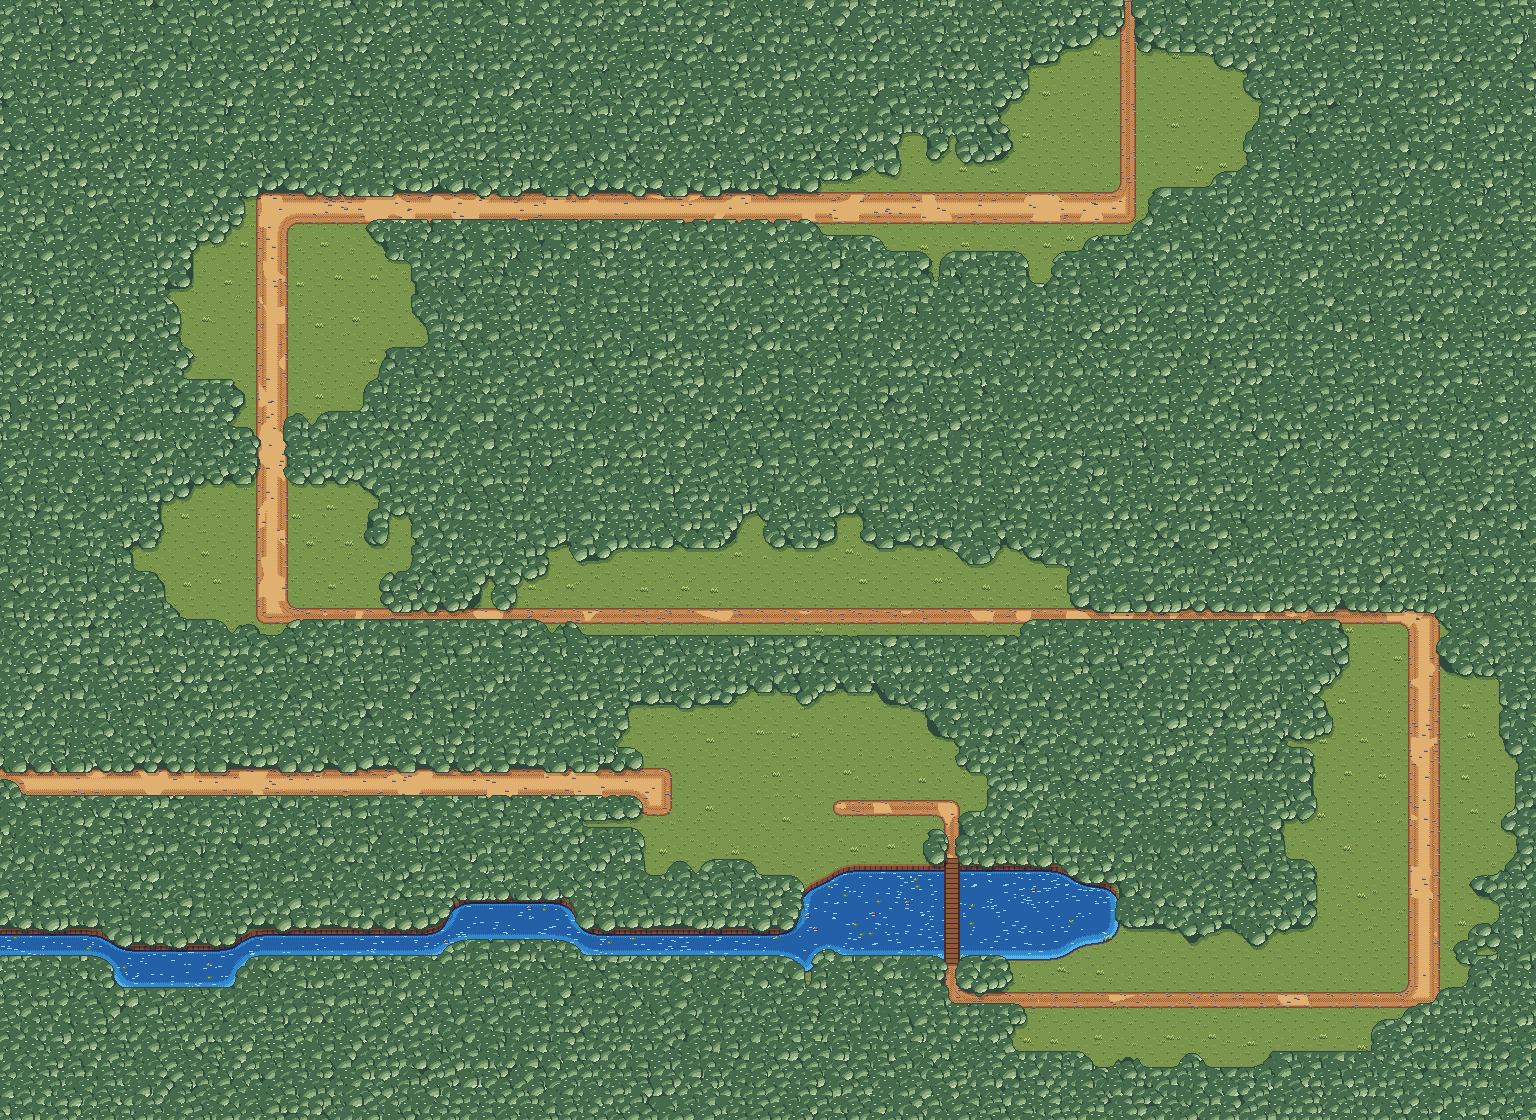
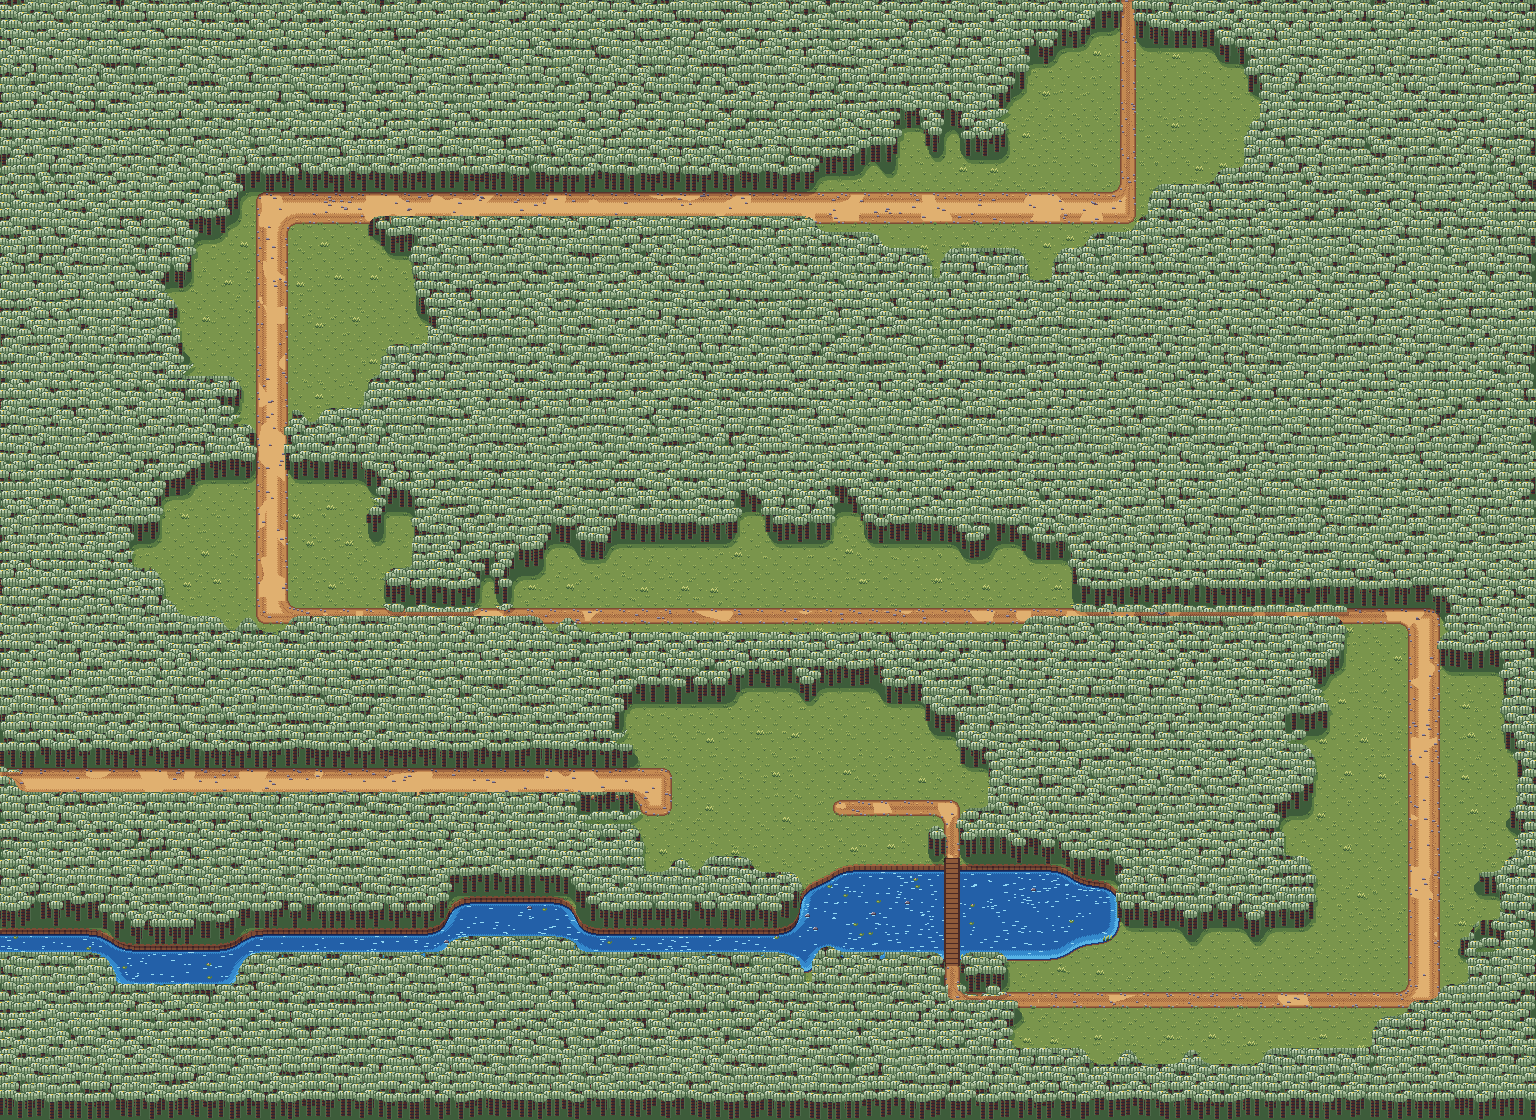
feat(terreno): masas por región según el sistema de diseño y relleno fuera del follaje (paso 4a, parcial; enmienda 14)

diff --git a/tools/gen_tierra_viva_terrain.py b/tools/gen_tierra_viva_terrain.py
@@ -79,6 +79,9 @@ def palette(state: str, region: str) -> dict[str, list[np.ndarray]]:
     p = {k: ramp(k) for k in ("grass", "leaf", "dirt", "sand", "water", "stone", "wood", "flower",
                               "ash", "gold", "roof_red", "ink")}
     dead = seven(ramp("dead_leaf"), [0, 1, 2, 3, 4, 5, 5])
+    p["dead"] = dead
+    p["fire"] = ramp("fire")
+    p["frailejon"] = seven(ramp("frailejon"), [0, 0, 1, 2, 3, 4, 4])
     if region == "cumbre":
         # páramo: pajonal y nieve en lo sano; pajonal seco y pedregal del
         # glaciar derretido en lo enfermo. Las matas son puyas.
@@ -343,68 +346,219 @@ def paint_water(img, wat, land, P, rng):
     return bank
 
 
-def paint_canopy(img, canopy, P, rng):
-    """Masa de copas por racimos (flora.clumps_canopy), recortada a su máscara.
-    Cada racimo es una esfera de 3-4 tonos de la rampa, de atrás adelante;
-    contorno del tono más oscuro de la rampa y sombra al sur sobre el suelo."""
-    H, W = canopy.shape
-    leaf = P["leaf"]
-    lx, ly = -0.6, -0.8
-    layer = np.zeros_like(img)
-    circles = []
-    for y in range(-6, H + 8, 9):
-        for x in range(-6 + (5 if (y // 9) % 2 else 0), W + 8, 11):
-            cx, cy = x + rng.integers(-3, 4), y + rng.integers(-2, 3)
-            if canopy[min(max(cy, 0), H - 1), min(max(cx, 0), W - 1)] or \
-                    canopy[min(max(cy + 6, 0), H - 1), min(max(cx, 0), W - 1)]:
-                circles.append((cx, cy, int(rng.integers(7, 11))))
-    circles.sort(key=lambda c: c[1])
-    for cx, cy, r in circles:
-        x0, x1 = max(0, cx - r - 1), min(W, cx + r + 2)
-        y0, y1 = max(0, cy - r - 1), min(H, cy + r + 2)
-        if x0 >= x1 or y0 >= y1:
-            continue
-        yy, xx = np.mgrid[y0:y1, x0:x1]
+# --- masas del follaje (enmienda 14 y sistema de diseño) -------------------------
+#
+# «Los bosques se cierran con filas de árboles solapados (muro de árboles)»;
+# «el árbol quemado es el mismo árbol sin copa, con hollín al pie»; «en lo
+# enfermo los arbustos son ramitas secas, no manchas oscuras» (README del
+# sistema de diseño «Tierra Viva» y sus tarjetas Overworld y Regiones).
+# Cada región tiene su pieza en sano y en enfermo, y las dos se colocan en los
+# mismos sitios: la ola descubre cada árbol sobre su versión quemada.
+
+## (pieza sana, pieza enferma, paso horizontal, paso vertical) por región.
+MASS = {
+    "bosque": ("tree", "burnt_embers", 14, 10),
+    "cuenca": ("tree", "burnt", 14, 10),
+    "costa": ("bush", "twigs", 11, 8),
+    "llanura": ("bush", "twigs", 11, 8),
+    "cumbre": ("frailejon", "frailejon_dry", 10, 9),
+}
+
+## Píxeles que una pieza del borde norte de la masa puede asomar por encima
+## de sus casillas: la copa sube, no se corta en recto.
+RISE = 8
+
+
+def clumps(W, H, circles, ramp, light=(-0.6, -0.8)):
+    """Racimos de copa (flora.clumps_canopy): cada racimo es una esfera de 3-4
+    tonos de la rampa, de atrás adelante, con su borde inferior separado."""
+    img = np.zeros((H, W, 4), np.uint8)
+    m = np.zeros((H, W), bool)
+    yy, xx = np.mgrid[0:H, 0:W]
+    lx, ly = light
+    y0, y1 = min(c[1] for c in circles), max(c[1] for c in circles)
+    for cx, cy, r in sorted(circles, key=lambda c: c[1]):
         dx = (xx + 0.5 - cx) / r
         dy = (yy + 0.5 - cy) / (r * 0.9)
         d2 = dx * dx + dy * dy
         inside = d2 <= 1.0
         nz = np.sqrt(np.clip(1 - d2, 0, 1))
-        v = np.clip(-(dx * lx + dy * ly) * 0.8 + nz * 0.5, 0, 1) - 0.08
+        occl = 0.25 * (cy - y0) / max(1, y1 - y0)
+        v = np.clip(-(dx * lx + dy * ly) * 0.8 + nz * 0.5, 0, 1) - occl
         idx = np.where(v > 0.78, 5, np.where(v > 0.52, 4, np.where(v > 0.28, 3, 2)))
-        win = layer[y0:y1, x0:x1]
+        layer = np.zeros_like(img)
         for k in (2, 3, 4, 5):
-            win[inside & (idx == k)] = leaf[k]
-        win[inside & (d2 > 0.72) & ((dy > 0.1) | (dx > 0.55))] = leaf[1]
-        if r > 8:
-            hx, hy = int(cx - r * 0.4), int(cy - r * 0.45)
-            if 0 <= hy < H and 0 <= hx < W - 1:
-                layer[hy, hx:hx + 2] = leaf[6]
-    # El borde de la masa es el de los racimos: asoman hasta OVERHANG px
-    # fuera de sus casillas, en festón, y no en una línea recta recortada.
-    reach = ndi.binary_dilation(canopy, disk(OVERHANG))
-    shape = (canopy | (layer[..., 3] > 0)) & reach
-    shape = ndi.binary_opening(shape, disk(1)) | canopy
-    # sombra de la masa sobre el suelo, al sur y un poco a la derecha
+            layer[inside & (idx == k)] = ramp[k]
+        layer[inside & (d2 > 0.72) & ((dy > 0.1) | (dx > 0.55))] = ramp[1]
+        img[inside] = layer[inside]
+        m |= inside
+    for cx, cy, r in circles:
+        if cy - y0 <= (y1 - y0) * 0.5 and r > 5:
+            x, y = int(cx - r * 0.4), int(cy - r * 0.45)
+            if 0 <= y < H and 0 <= x < W - 1 and m[y, x]:
+                img[y, x:x + 2] = ramp[6]
+    return img, m
+
+
+def outlined(img, color):
+    """Contorno exterior de 1 px (cláusula 3: el tono más oscuro de la rampa
+    de la propia pieza)."""
+    m = img[..., 3] > 0
+    ring = ndi.binary_dilation(m) & ~m
+    out = img.copy()
+    out[ring] = color
+    return out
+
+
+def line(img, x0, y0, x1, y1, color, width=1):
+    H, W = img.shape[:2]
+    n = int(max(abs(x1 - x0), abs(y1 - y0))) + 1
+    for t in np.linspace(0, 1, n):
+        x, y = int(round(x0 + (x1 - x0) * t)), int(round(y0 + (y1 - y0) * t))
+        if 0 <= y < H:
+            img[y, max(0, x):max(0, min(W, x + width))] = color
+
+
+def trunk(img, cx, top, bottom, ramp):
+    """Tronco de 6 px con luz a la izquierda y raíces abiertas al pie."""
+    img[top:bottom, cx - 3:cx + 3] = ramp[2]
+    img[top:bottom, cx - 3:cx - 1] = ramp[3]
+    img[top:bottom, cx + 2:cx + 3] = ramp[1]
+    img[bottom - 2:bottom, cx - 5:cx + 5] = ramp[2]
+    img[bottom - 1, cx - 5:cx - 3] = ramp[1]
+    img[bottom - 1, cx + 3:cx + 5] = ramp[1]
+
+
+def piece(kind, P, rs):
+    """Una pieza de masa. El pie es el centro de su fila de abajo."""
+    leaf, wood, ash = P["leaf"], P["wood"], P["ash"]
+    if kind == "tree":
+        W, H = 28, 38
+        img = np.zeros((H, W, 4), np.uint8)
+        trunk(img, 14, 22, H, wood)
+        circles = [(14 + int(rs.integers(-1, 2)), 11, 10), (7, 15, 7), (21, 15, 7), (10, 7, 6), (19, 7, 6)]
+        top, _ = clumps(W, 27, circles, leaf)
+        top = outlined(top, leaf[0])
+        blit(img, top, 0, 0)
+        return img
+    if kind in ("burnt", "burnt_embers"):
+        # el mismo árbol sin copa: tronco y ramas carbonizados en ceniza
+        W, H = 28, 38
+        img = np.zeros((H, W, 4), np.uint8)
+        trunk(img, 14, 14, H, ash)
+        tips = []
+        for a in (-2.3, -1.9, -1.4, -1.0, -0.6):
+            a += rs.uniform(-0.15, 0.15)
+            ln = rs.uniform(9, 13)
+            x1, y1 = 14 + np.cos(a) * ln, 15 + np.sin(a) * ln
+            line(img, 14, 16, x1, y1, ash[1], 2)
+            tx, ty = x1 + np.cos(a - 0.5) * 4, y1 + np.sin(a - 0.5) * 4
+            line(img, x1, y1, tx, ty, ash[2])
+            tips.append((int(x1), int(y1)))
+        img = outlined(img, ash[0])
+        if kind == "burnt_embers" and rs.random() < 0.25:
+            # brasas de `fire` en las ramas: la causa sigue activa
+            fire = P["fire"]
+            for k, (x, y) in enumerate(tips):
+                if 0 <= y < H and 0 <= x < W:
+                    img[y, x] = fire[4 if k % 2 else 3]
+            img[16, 13:15] = fire[2]
+        return img
+    if kind == "bush":
+        circles = [(9, 7, 6), (5, 9, 4), (13, 9, 4)]
+        img, _ = clumps(18, 14, circles, leaf)
+        return outlined(img, leaf[0])
+    if kind == "twigs":
+        W, H = 16, 12
+        img = np.zeros((H, W, 4), np.uint8)
+        dl = P["dead"]
+        for k in range(7):
+            a = -np.pi / 2 + rs.uniform(-1.0, 1.0)
+            ln = rs.uniform(5, 10)
+            line(img, 8, 11, 8 + np.cos(a) * ln, 11 + np.sin(a) * ln, dl[2 + k % 3])
+        img[10:12, 6:10] = dl[1]
+        return img
+    if kind in ("frailejon", "frailejon_dry"):
+        W, H = 14, 26
+        img = np.zeros((H, W, 4), np.uint8)
+        dry = kind == "frailejon_dry"
+        skirt = P["dead"]
+        # tronco cubierto de hojas secas, como el frailejón de verdad
+        img[9:H, 5:9] = skirt[2]
+        img[9:H, 5:6] = skirt[3]
+        img[9:H:3, 5:9] = skirt[1]
+        ros = P["dead"] if dry else P["frailejon"]
+        yy, xx = np.mgrid[0:11, 0:W]
+        e = ((xx + 0.5 - 7) / 7) ** 2 + ((yy + 0.5 - 5) / 4.5) ** 2 <= 1
+        top = np.zeros((11, W, 4), np.uint8)
+        top[e] = ros[2]
+        top[e & (yy < 5)] = ros[3]
+        top[e & (yy < 3) & (xx < 8)] = ros[4]
+        for x in range(1, W - 1, 3):
+            top[e & (xx == x) & (yy > 1)] = ros[1]
+        if not dry:
+            top[1, 6:8] = P["gold"][4]
+        img[:11][e] = top[e]
+        return outlined(img, ros[0])
+    raise KeyError(kind)
+
+
+def paint_mass(img, mask, region, state, P, rng):
+    """Muro de piezas sobre la máscara del follaje, ordenadas por el pie.
+    Devuelve la silueta de la masa."""
+    H, W = mask.shape
+    pure_kind, sick_kind, sx, sy = MASS[region]
+    kind = pure_kind if state == "sano" else sick_kind
+    feet = []
+    for y in range(sy, H + sy, sy):
+        for x in range((y // sy % 2) * (sx // 2), W, sx):
+            fx, fy = x + int(rng.integers(-3, 4)), y + int(rng.integers(-2, 3))
+            if 0 <= fy < H and 0 <= fx < W and mask[fy, fx]:
+                feet.append((fy, fx, int(rng.integers(0, 1 << 30))))
+    feet.sort()
+    reach = ndi.binary_dilation(mask, disk(OVERHANG))
+    for k in range(1, RISE + 1):
+        reach |= shift(mask, -k, 0)
+    sick = state != "sano"
+    yy, xx = np.indices(mask.shape)
+    if sick:
+        # hollín bajo lo muerto: el suelo de la masa se oscurece, tramado
+        soot = mask & ((xx + yy) % 2 == 0)
+        img[soot] = darker(img[soot], P)
+        img[mask & ((xx * 3 + yy * 5) % 7 == 0)] = P["ash"][1]
+    elif kind == "frailejon":
+        img[mask] = P["grass"][2]
+    else:
+        img[mask] = P["leaf"][1]
+    layer = np.zeros_like(img)
+    for n, (fy, fx, seed) in enumerate(feet):
+        if sick and kind.startswith("burnt") and n % 3 and mask[min(fy + 10, H - 1), fx]:
+            # Lo quemado no es una espesura: queda el borde de la masa entero
+            # y uno de cada tres árboles dentro, con el suelo en hollín a la
+            # vista entre ellos (sistema de diseño, mapa del Bosque enfermo).
+            continue
+        spr = piece(kind, P, np.random.default_rng(seed))
+        h, w = spr.shape[:2]
+        blit(layer, spr, fx - w // 2, fy - h + 1)
+    on = (layer[..., 3] > 0) & reach
+    shape = on | mask
     shadow = shift(shape, 4, 2) & ~shape
     img[shadow] = darker(img[shadow], P)
-    filled = shape & (layer[..., 3] > 0)
-    img[filled] = layer[filled]
-    img[shape & ~filled] = leaf[1]
-    img[ndi.binary_dilation(shape) & ~shape] = leaf[0]
+    img[on] = layer[on]
     return shape
 
 
-def darker(px: np.ndarray, P: dict) -> np.ndarray:
+def darker(px, P):
     """Baja un tono cada píxel dentro de la rampa del estado a la que pertenece."""
+    if len(px) == 0:
+        return px
     lut = {}
     for r in P.values():
         for i, c in enumerate(r):
-            lut.setdefault(tuple(c[:3]), r[max(0, i - 1)])
-    out = px.copy()
-    for i, c in enumerate(px):
-        out[i] = lut.get(tuple(c[:3]), c)
-    return out
+            lut.setdefault(tuple(int(v) for v in c[:3]), r[max(0, i - 1)])
+    uniq, inv = np.unique(px.reshape(-1, 4), axis=0, return_inverse=True)
+    mapped = np.array([lut.get(tuple(int(v) for v in u[:3]), u) for u in uniq], np.uint8)
+    return mapped[inv.reshape(-1)].reshape(px.shape)
 
 
 def paint_bridges(img, G, P):
@@ -628,7 +782,7 @@ def render(lines: list[str], state: str, region: str) -> np.ndarray:
     if sand.any():
         paint_sand(img, sand & ~path, P, rng)
     wat = rounded(water_t | bridge_t, 8, sigma=12)
-    canopy = rounded(G == "#", 5, sigma=6) & ~wat
+    foliage = rounded(G == "#", 5, sigma=6) & ~wat
     beach = ndi.binary_dilation(sand, iterations=3) if sand.any() else sand
     # orilla con talud solo donde el agua no da a la playa
     bank = paint_water(img, wat, ~wat & ~beach, P, rng)
@@ -637,9 +791,9 @@ def render(lines: list[str], state: str, region: str) -> np.ndarray:
     paint_water_life(img, wat, bank, state, P, rng)
     paint_bridges(img, G, P)
 
-    free = ~ndi.binary_dilation(path | wat | canopy | sand, iterations=4)
+    free = ~ndi.binary_dilation(path | wat | foliage | sand, iterations=4)
     paint_tufts(img, free, P, rng)
-    paint_canopy(img, canopy, P, rng)
+    paint_mass(img, foliage, region, state, P, rng)
     return img
 
 

diff --git a/docs/ux/anexos/2026-10-30-tierra-viva.md b/docs/ux/anexos/2026-10-30-tierra-viva.md
@@ -569,3 +569,63 @@ fuente, columnas de la Cripta) es el viejo y se rehace en el paso 4.
 - los sprites del catálogo de cada `*.deco.txt`, con el estilo del
   prototipo y el contorno de su rampa;
 - los edificios y vecinos de PixelLab, a `assets/source/pixellab/`.
+
+**Visto bueno de Diego al paso 3: 2026-10-31.**
+
+#### Corrección contra el sistema de diseño · 2026-11-01
+
+Diego descargó el sistema de diseño «Tierra Viva» y ahora está en el repo, en
+`docs/ux/sistema-de-diseno/`. Al cotejar los pasos 2 y 3 con él salieron
+diferencias, y Diego aprobó corregirlas (2026-10-31):
+
+- **Bosque enfermo = incendio** (`ash` + `fire`): árboles quemados sin copa,
+  con hollín al pie y brasas. Antes eran copas de hoja muerta.
+- **Los bosques se cierran con muros de árboles solapados**, con troncos;
+  antes eran una alfombra de copas.
+- **Arbustos enfermos = ramitas secas**, no manchas oscuras.
+- **Rasgos de región pendientes:** `sludge` en la Llanura enferma, hollín
+  sobre `ice` en la Cumbre y `smog` en la Cripta.
+- **Para otras partes:** la caja de diálogo (papel con marco de madera)
+  choca con el contrato «Columna» de la parte 5; el cartel de lugar, el HUD
+  de acción y los personajes de 48 px son de R2 y R3.
+
+#### Enmienda 14 — La masa sustituye al relleno · autorizada por Diego el 2026-10-31
+
+- En una zona con suelo de Tierra Viva, las piezas `tree`, `tree_b`,
+  `burnt_tree`, `bush`, `pine` y `boulder` que caen **enteras dentro del
+  follaje sólido** no se montan: ni sprite ni cuerpo. La colisión ya sale de
+  la matriz. Antes eran unas 4.400 piezas en las seis regiones.
+  - `WorldDecor.FILL`, `has_terrain()` e `is_fill()`.
+  - `verify_zone` cuenta con la misma regla.
+  - El Bosque pasa de unos 680 sprites de decorado a 82.
+- **Cada región tiene su masa** en el generador (`MASS` en
+  `gen_tierra_viva_terrain.py`), colocada en los mismos sitios en los dos
+  estados:
+
+  | Región | Sano | Enfermo |
+  |---|---|---|
+  | Bosque | muro de árboles solapados | árboles quemados con brasas; el borde entero y uno de cada tres dentro |
+  | Cuenca | muro de árboles | árboles quemados sin brasas |
+  | Costa y Llanura | arbustos | ramitas secas |
+  | Cumbre | frailejones | frailejones secos |
+
+**Paso 4a, estado al 2026-11-01 (parcial, subido para que el equipo siga):**
+
+- **Medido en verde:**
+  - `verify_palette image` y `tv-state` en las doce imágenes;
+  - `value`: Bosque 1,63–1,79, Cuenca 1,54–1,67, Costa 1,54–1,60,
+    Llanura 1,83–2,09 y Cumbre 2,35–2,53;
+  - `verify_terrain` 7/7 en las seis regiones;
+  - `verify_usability` 16/16, `verify_camera` 37/37, `verify_encounters`
+    82/82, `verify_flow` 23/23, `verify_party_ai` 19/19 y
+    `verify_movement` 99/99;
+  - `verify_zone`: Bosque 46/46 y Valdehoja 55/55.
+- **Sin medir:** `verify_zone` en Cuenca, Costa, Llanura, Cumbre y Cripta.
+  La pasada se cortó porque el equipo se quedó sin memoria, no por un
+  fallo. Es lo primero que hay que correr.
+- **Falta:**
+  - el `sludge` de la Llanura, el hollín sobre `ice` de la Cumbre y el
+    `smog` de la Cripta;
+  - capturas a 640 × 360 de las seis regiones;
+  - el visto bueno de Diego.
+- **El paso a paso desde aquí** está en `docs/guia-del-equipo.md`.
